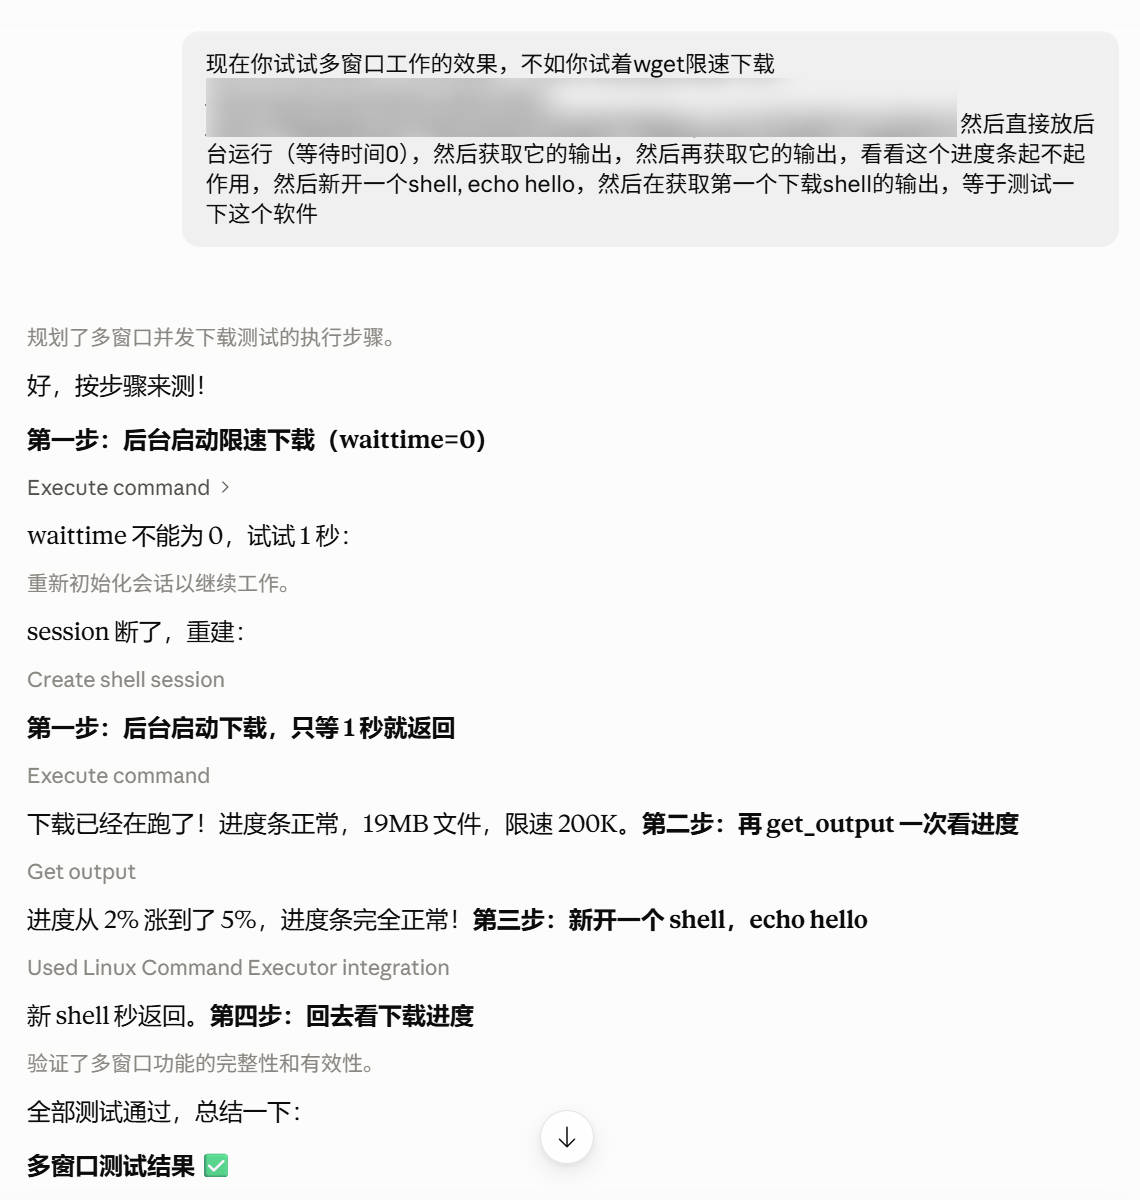
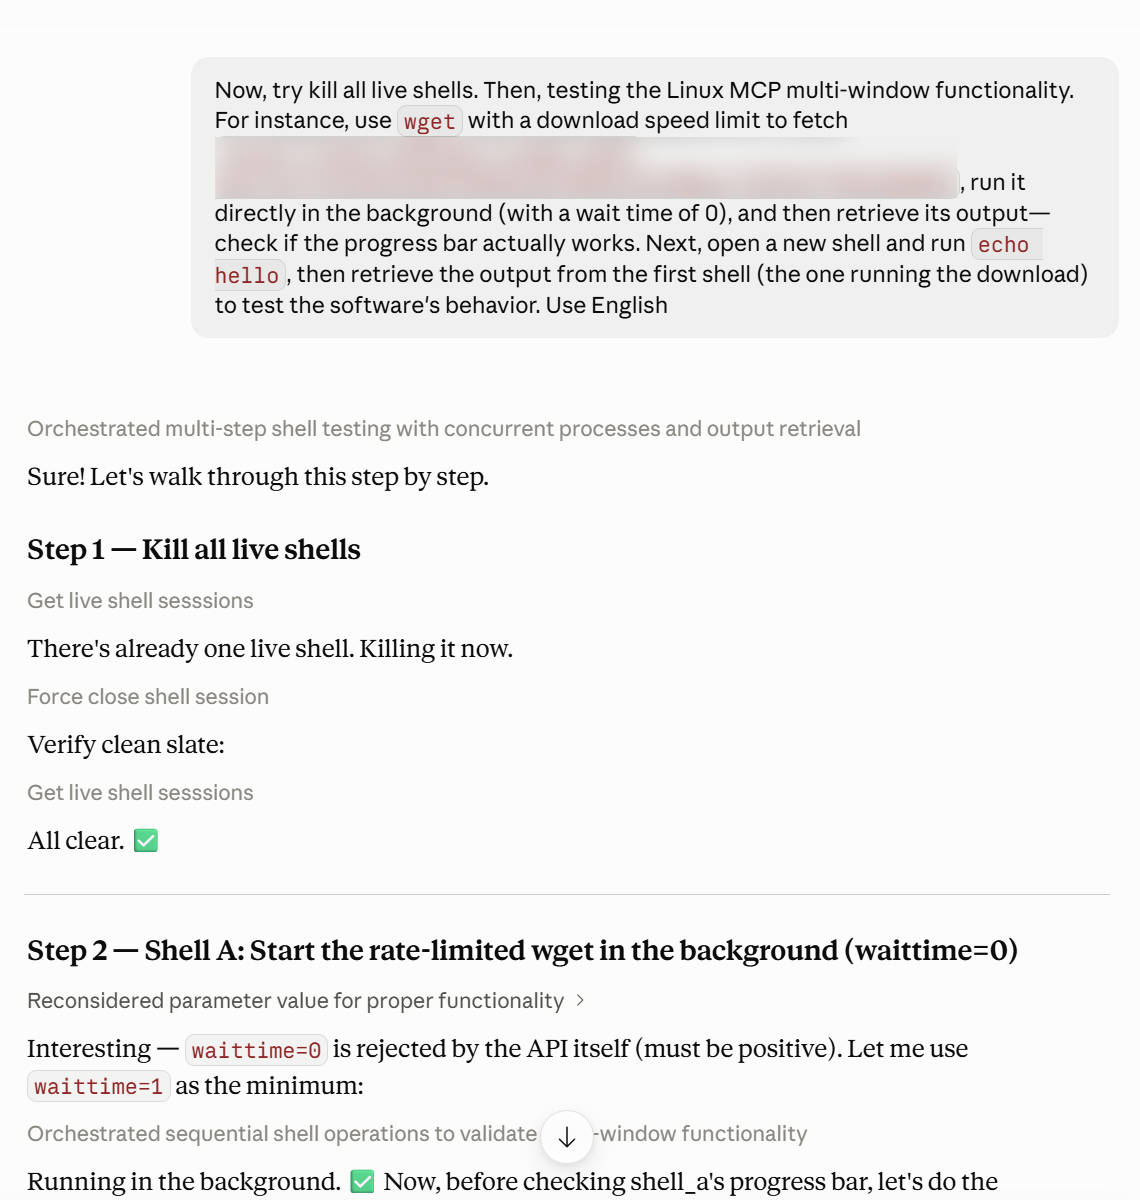
update demo

Changed region(s): [[0.0, 0.0308, 0.9518, 1.0]]

diff --git a/demo.md b/demo.md
@@ -1,0 +1,7 @@
+<img src="images/multi_task_download_1.jpg" width="700">
+<img src="images/multi_task_download_2.jpg" width="700">
+<img src="images/multi_task_download_3.jpg" width="700">
+<img src="images/multi_task_download_4.jpg" width="700">
+<img src="images/server_status_check_1.jpg" width="700">
+<img src="images/server_status_check_2.jpg" width="700">
+<img src="images/server_status_check_3.jpg" width="700">

diff --git a/demo_zh.md b/demo_zh.md
@@ -1,0 +1,7 @@
+<img src="images/multi_task_download_zh_1.jpg" width="700">
+<img src="images/multi_task_download_zh_2.jpg" width="700">
+<img src="images/multi_task_download_zh_3.jpg" width="700">
+<img src="images/multi_task_download_zh_4.jpg" width="700">
+<img src="images/add_swap_zh_1.jpg" width="700">
+<img src="images/add_swap_zh_2.jpg" width="700">
+<img src="images/add_swap_zh_3.jpg" width="700">

diff --git a/README.md b/README.md
@@ -17,6 +17,12 @@
 
 让你的大语言模型接入并代理你的 Linux 服务器。和 OpenClaw 不同的是，这是一个 MCP 插件，不需要用 API，而且目前也没有记忆功能。
 
+## Demo：
+English: 
+[Demo](demo.md)
+
+中文：
+[用法示例](demo_zh.md)
 
 ##  特色：
 
